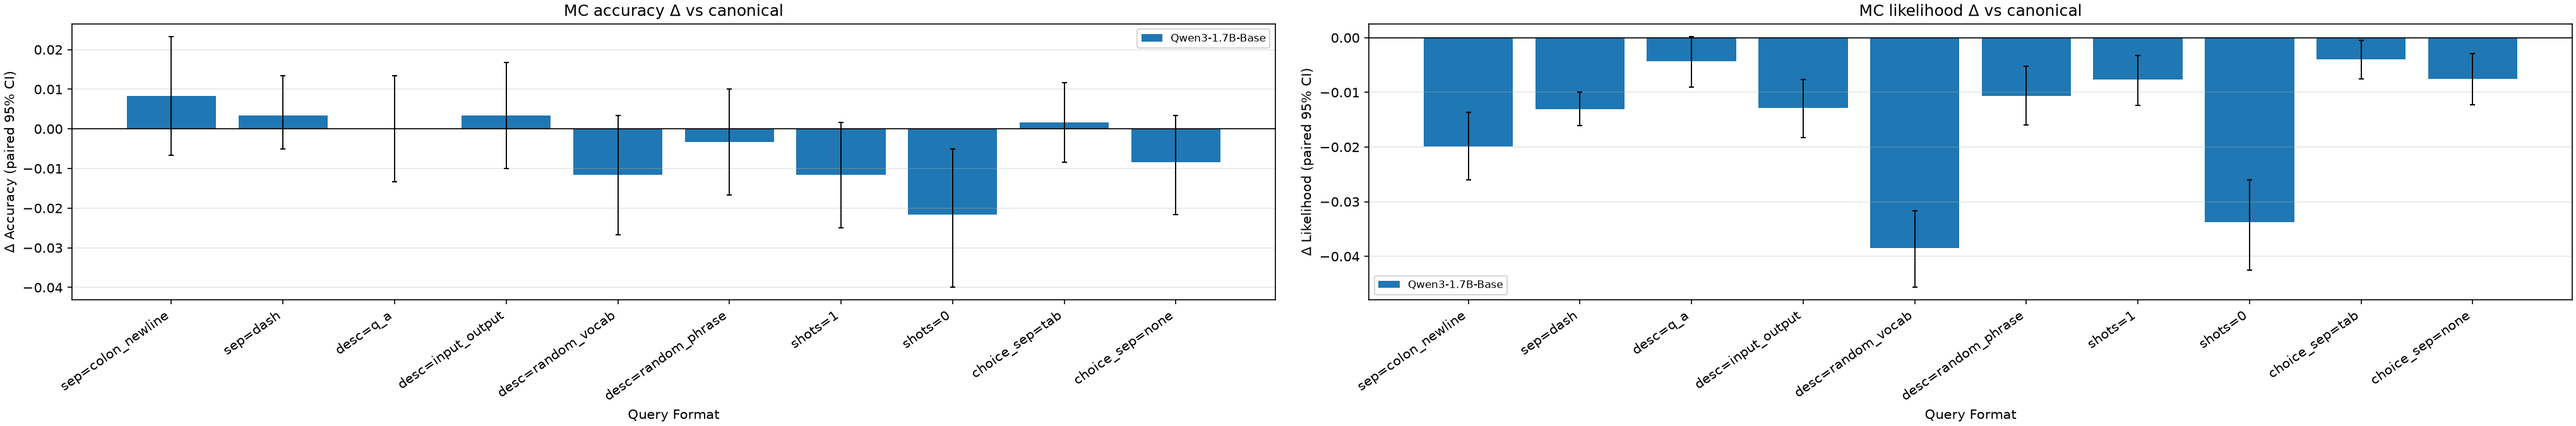
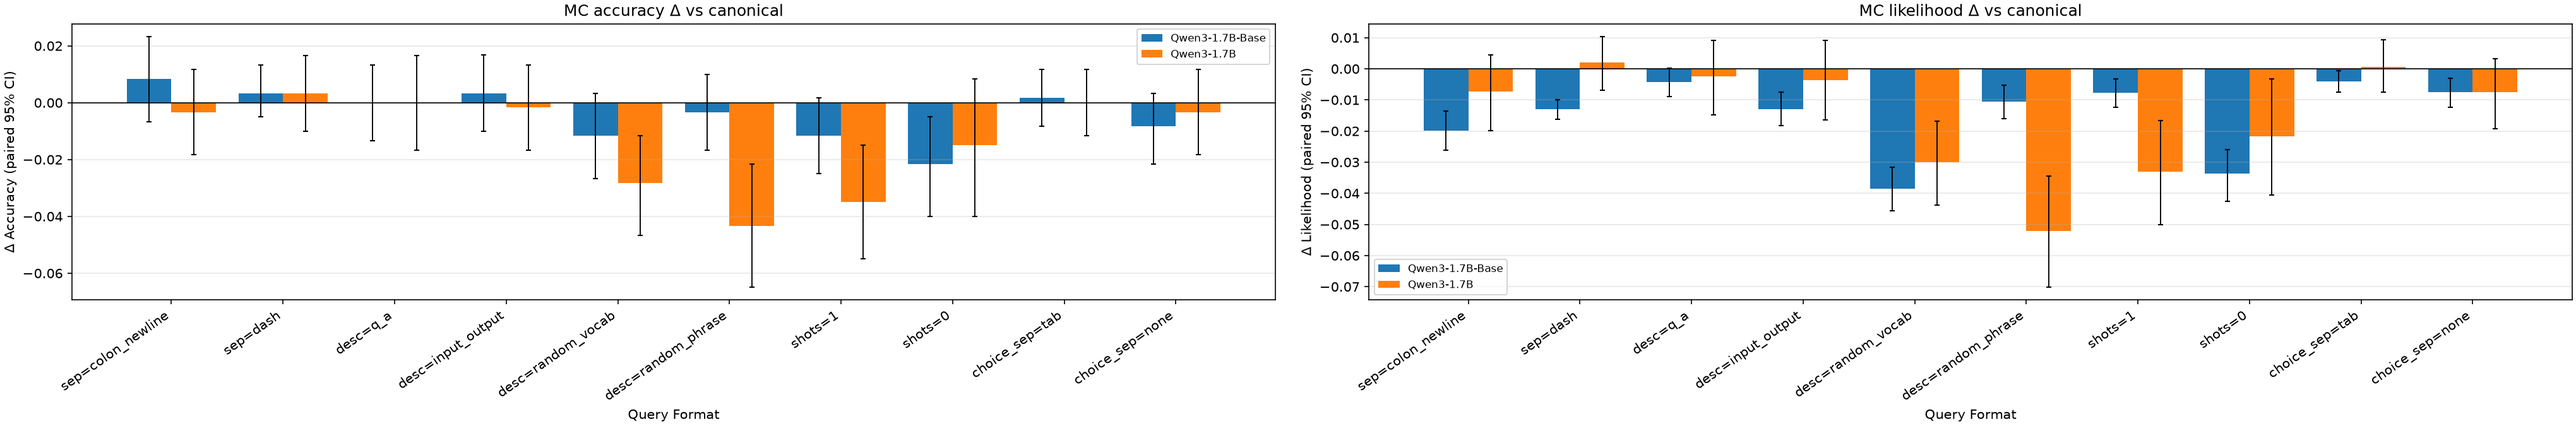
Format run: Qwen3-1.7B Base and Instruct results, four-model charts, descriptor-pair provenance correction

diff --git a/docs/results/2026-09-17-1350-fmt-ofat-dd300m.md b/docs/results/2026-09-17-1350-fmt-ofat-dd300m.md
@@ -1,4 +1,4 @@
-# One-factor format effects, DataDecide 300M, SNR train and dev subsets (2026-09-17 13:50)
+# One-factor format effects, DataDecide 300M / 1B and Qwen3-1.7B, SNR train and dev subsets (2026-09-17 13:50)
 
 First clean format run: canonical OLMES prompt with no instruction, one axis changed at a time
 (axes 1 separator, 2 descriptor pair incl. two random-string descriptors, 5 text-to-option
@@ -64,7 +64,7 @@ Effects are paired per item against canonical; se is the paired standard error (
 
 ## DataDecide 1B, same design (added 14:30)
 
-Sweeps `fmt-ofat-1256-dd1b-{train,dev}`; full table in `assets/.../effects-dd300m-dd1b.md`
+Sweeps `fmt-ofat-1256-dd1b-{train,dev}`; full table in `assets/.../effects-all-models.md`
 (script `scripts/po_format_effects.py`). RC, paired against canonical (train / dev):
 
 | format | acc Δ | share Δ ± se | 300M share Δ for comparison |
@@ -93,6 +93,65 @@ Sweeps `fmt-ofat-1256-dd1b-{train,dev}`; full table in `assets/.../effects-dd300
   "Answer:\n" plus a space-prefixed continuation on the 1B tokenizer.
 - **MC stays at chance on 1B for every format**, as on 300M; no share effect exceeds 1.5 se.
 
+## Qwen3-1.7B-Base and Qwen3-1.7B, same design (added 16:40)
+
+Sweeps `fmt-ofat-1256-qwen1.7b{-base,}-{train,dev}`; full table in
+`assets/.../effects-all-models.md`. Effects below are on the pooled train+dev items (n=600);
+canonical RC accuracy / share: Base 0.843 / 0.341, Instruct 0.790 / 0.414; canonical MC:
+Base 0.915 / 0.879, Instruct 0.898 / 0.900.
+
+RC, paired against canonical, pooled Δ accuracy and Δ share ± se:
+
+| format | Base acc Δ | Base share Δ ± se | Instruct acc Δ | Instruct share Δ ± se |
+|---|---|---|---|---|
+| sep=colon_newline | −0.020 | −0.0128 ± 0.0009 | −0.015 | −0.0382 ± 0.0026 |
+| sep=dash | −0.012 | −0.0091 ± 0.0006 | +0.020 | −0.0059 ± 0.0010 |
+| desc=q_a | −0.012 | −0.0057 ± 0.0005 | 0.000 | −0.0200 ± 0.0013 |
+| desc=input_output | −0.002 | −0.0003 ± 0.0004 | 0.000 | −0.0023 ± 0.0013 |
+| desc=random_vocab | −0.018 | −0.0140 ± 0.0009 | −0.015 | −0.0143 ± 0.0017 |
+| desc=random_phrase | −0.035 | −0.0200 ± 0.0011 | −0.005 | −0.0079 ± 0.0017 |
+| shots=1 | −0.023 | −0.0068 ± 0.0009 | −0.030 | −0.0060 ± 0.0019 |
+| shots=0 | −0.127 | −0.0370 ± 0.0019 | −0.070 | −0.0642 ± 0.0034 |
+
+MC, Qwen only (every DD MC effect is within 1.5 se of zero at chance):
+
+| format | Base acc Δ | Base share Δ ± se | Instruct acc Δ | Instruct share Δ ± se |
+|---|---|---|---|---|
+| sep=colon_newline | +0.008 | −0.0199 ± 0.0032 | −0.003 | −0.0073 ± 0.0062 |
+| sep=dash | +0.003 | −0.0131 ± 0.0015 | +0.003 | +0.0020 ± 0.0045 |
+| desc=q_a | 0.000 | −0.0043 ± 0.0024 | 0.000 | −0.0025 ± 0.0062 |
+| desc=input_output | +0.003 | −0.0129 ± 0.0027 | −0.002 | −0.0036 ± 0.0066 |
+| desc=random_vocab | −0.012 | −0.0385 ± 0.0036 | −0.028 | −0.0301 ± 0.0069 |
+| desc=random_phrase | −0.003 | −0.0106 ± 0.0027 | −0.043 | −0.0520 ± 0.0092 |
+| choice_sep=tab | +0.002 | −0.0040 ± 0.0018 | 0.000 | +0.0006 ± 0.0043 |
+| choice_sep=none | −0.008 | −0.0075 ± 0.0025 | −0.003 | −0.0076 ± 0.0058 |
+| shots=1 | −0.012 | −0.0076 ± 0.0024 | −0.035 | −0.0331 ± 0.0085 |
+| shots=0 | −0.022 | −0.0337 ± 0.0041 | −0.015 | −0.0217 ± 0.0098 |
+
+- **Canonical is at or near the top for both Qwen models on RC.** Every RC format change
+  lowers the share on both models, most by more than 5 se. The only accuracy gain is dash on
+  Instruct (+0.020, about 1.5 se on accuracy) while its share falls, the same accuracy /
+  likelihood split seen for colon-newline on 1B, in the other direction.
+- **Shot count dominates.** Zero shots costs Base 0.127 accuracy and 0.037 share, Instruct
+  0.070 and 0.064; one shot costs 0.006 to 0.007 share on both. This is the largest effect
+  in the whole run on any model, and the only effect with the same sign on all four.
+- **Both random-string descriptors hurt Qwen where 300M ignored the vocabulary string.**
+  Base loses 0.014 (vocab) and 0.020 (phrase) share; Instruct loses 0.014 and 0.008. Qwen
+  reads the descriptor text, DD300M mostly does not.
+- **Instruct is more format-sensitive than Base on the share and less on accuracy.** Its
+  colon-newline and Q/A share losses are three times Base's, but its RC accuracy is flat
+  under most changes because its canonical share sits higher (0.414) with more headroom
+  before rankings flip.
+- **MC on Qwen is sensitive to the same things as RC**, in the share more than in accuracy:
+  the random descriptors and shot count move the share by 0.02 to 0.05, while the MC-only
+  text-to-option separator is neutral (tab) or a small loss (none). Colon-newline and dash
+  lower the Base MC share by 0.01 to 0.02 with accuracy unchanged, the label prior shifting
+  under a fixed ranking.
+- **Across the four models no non-canonical format wins on the share.** The 1B dash gain
+  (+0.0013) is the only positive share effect that resolves; the same format costs both
+  Qwen models 0.006 to 0.009. Selection of a query format therefore has to be per model, and
+  for this one-factor set the canonical OLMES format is the right default for all four.
+
 ## Charts (added 15:45)
 
 Bar charts of the paired effect vs canonical with bootstrap 95% CIs, computed on the pooled
@@ -100,17 +159,16 @@ train+dev items (n=600; 2000 resamples) so the CI is the tightest the two subset
 Train-only and dev-only rows remain in `assets/.../effects-with-ci.csv` (column `subset`)
 as the replication check. Files under `assets/2026-09-17-fmt-ofat-dd300m/`:
 
-- `format-effects-rc.png`: RC, all formats, DD300M / DD1B / Qwen3-1.7B-Base.
-- `format-effects-mc-qwen.png`: MC, all formats, Qwen3-1.7B-Base only (DD stays at chance).
+- `format-effects-rc.png`: RC, all formats, DD300M / DD1B / Qwen3-1.7B-Base / Qwen3-1.7B.
+- `format-effects-mc-qwen.png`: MC, all formats, the two Qwen models (DD stays at chance).
 - `format-effects-group-{controls,separator,descriptor,shots}.png`: RC, one axis per figure.
-- `format-effects-group-choice-sep.png`: MC text-to-option separator, Qwen3-1.7B-Base.
+- `format-effects-group-choice-sep.png`: MC text-to-option separator, the two Qwen models.
 
 Pooling halves nothing qualitatively: the sign of every effect matches its train and dev
 estimates, and the pooled se is about 0.7 of the single-subset se.
 
 ## Caveats
 
-- Two models so far; the Qwen replicates of this design are running.
 - The two random descriptors are single draws; the difference between them is a
   difference between two strings, not between two generation methods. More draws would
   be needed to say which kind of random string hurts.

diff --git a/docs/results/assets/2026-09-17-fmt-ofat-dd300m/effects-all-models.md b/docs/results/assets/2026-09-17-fmt-ofat-dd300m/effects-all-models.md
@@ -90,3 +90,33 @@
 | choice_sep=tab | +0.007 (0.913) | -0.0022 ± 0.0028 (0.8643) | -0.003 (0.920) | -0.0058 ± 0.0022 (0.8856) | +0.002 (0.917) | -0.0040 ± 0.0018 (0.8750) |
 | choice_sep=none | -0.007 (0.900) | -0.0040 ± 0.0037 (0.8625) | -0.010 (0.913) | -0.0110 ± 0.0033 (0.8804) | -0.008 (0.907) | -0.0075 ± 0.0025 (0.8714) |
 
+## qwen1.7b RC
+
+| format | train acc Δ | train share Δ ± se | dev acc Δ | dev share Δ ± se | train+dev acc Δ | train+dev share Δ ± se |
+|---|---|---|---|---|---|---|
+| canonical | +0.000 (0.763) | +0.0000 ± 0.0000 (0.4029) | +0.000 (0.817) | +0.0000 ± 0.0000 (0.4241) | +0.000 (0.790) | +0.0000 ± 0.0000 (0.4135) |
+| sep=colon_newline | +0.000 (0.763) | -0.0295 ± 0.0037 (0.3734) | -0.030 (0.787) | -0.0469 ± 0.0036 (0.3771) | -0.015 (0.775) | -0.0382 ± 0.0026 (0.3753) |
+| sep=dash | +0.020 (0.783) | -0.0038 ± 0.0015 (0.3992) | +0.020 (0.837) | -0.0080 ± 0.0013 (0.4161) | +0.020 (0.810) | -0.0059 ± 0.0010 (0.4076) |
+| desc=q_a | +0.007 (0.770) | -0.0181 ± 0.0018 (0.3849) | -0.007 (0.810) | -0.0219 ± 0.0018 (0.4022) | +0.000 (0.790) | -0.0200 ± 0.0013 (0.3935) |
+| desc=input_output | +0.003 (0.767) | +0.0012 ± 0.0020 (0.4042) | -0.003 (0.813) | -0.0059 ± 0.0018 (0.4182) | +0.000 (0.790) | -0.0023 ± 0.0013 (0.4112) |
+| desc=random_vocab | -0.017 (0.747) | -0.0133 ± 0.0025 (0.3897) | -0.013 (0.803) | -0.0154 ± 0.0022 (0.4086) | -0.015 (0.775) | -0.0143 ± 0.0017 (0.3992) |
+| desc=random_phrase | +0.003 (0.767) | -0.0067 ± 0.0025 (0.3962) | -0.013 (0.803) | -0.0090 ± 0.0024 (0.4151) | -0.005 (0.785) | -0.0079 ± 0.0017 (0.4056) |
+| shots=1 | -0.013 (0.750) | -0.0040 ± 0.0025 (0.3990) | -0.047 (0.770) | -0.0080 ± 0.0029 (0.4161) | -0.030 (0.760) | -0.0060 ± 0.0019 (0.4075) |
+| shots=0 | -0.050 (0.713) | -0.0591 ± 0.0047 (0.3438) | -0.090 (0.727) | -0.0693 ± 0.0049 (0.3548) | -0.070 (0.720) | -0.0642 ± 0.0034 (0.3493) |
+
+## qwen1.7b MC
+
+| format | train acc Δ | train share Δ ± se | dev acc Δ | dev share Δ ± se | train+dev acc Δ | train+dev share Δ ± se |
+|---|---|---|---|---|---|---|
+| canonical | +0.000 (0.893) | +0.0000 ± 0.0000 (0.8943) | +0.000 (0.903) | +0.0000 ± 0.0000 (0.9046) | +0.000 (0.898) | +0.0000 ± 0.0000 (0.8995) |
+| sep=colon_newline | -0.003 (0.890) | -0.0120 ± 0.0094 (0.8823) | -0.003 (0.900) | -0.0027 ± 0.0083 (0.9019) | -0.003 (0.895) | -0.0073 ± 0.0062 (0.8921) |
+| sep=dash | +0.000 (0.893) | -0.0008 ± 0.0059 (0.8936) | +0.007 (0.910) | +0.0047 ± 0.0067 (0.9093) | +0.003 (0.902) | +0.0020 ± 0.0045 (0.9014) |
+| desc=q_a | -0.003 (0.890) | -0.0061 ± 0.0106 (0.8882) | +0.003 (0.907) | +0.0011 ± 0.0065 (0.9057) | +0.000 (0.898) | -0.0025 ± 0.0062 (0.8969) |
+| desc=input_output | -0.010 (0.883) | -0.0098 ± 0.0087 (0.8845) | +0.007 (0.910) | +0.0026 ± 0.0099 (0.9072) | -0.002 (0.897) | -0.0036 ± 0.0066 (0.8959) |
+| desc=random_vocab | -0.037 (0.857) | -0.0397 ± 0.0109 (0.8546) | -0.020 (0.883) | -0.0205 ± 0.0085 (0.8841) | -0.028 (0.870) | -0.0301 ± 0.0069 (0.8693) |
+| desc=random_phrase | -0.057 (0.837) | -0.0652 ± 0.0144 (0.8291) | -0.030 (0.873) | -0.0389 ± 0.0115 (0.8657) | -0.043 (0.855) | -0.0520 ± 0.0092 (0.8474) |
+| shots=1 | -0.040 (0.853) | -0.0419 ± 0.0131 (0.8524) | -0.030 (0.873) | -0.0243 ± 0.0108 (0.8802) | -0.035 (0.863) | -0.0331 ± 0.0085 (0.8663) |
+| shots=0 | -0.027 (0.867) | -0.0338 ± 0.0130 (0.8605) | -0.003 (0.900) | -0.0096 ± 0.0146 (0.8950) | -0.015 (0.883) | -0.0217 ± 0.0098 (0.8777) |
+| choice_sep=tab | +0.007 (0.900) | +0.0041 ± 0.0052 (0.8984) | -0.007 (0.897) | -0.0029 ± 0.0068 (0.9016) | +0.000 (0.898) | +0.0006 ± 0.0043 (0.9000) |
+| choice_sep=none | +0.010 (0.903) | +0.0004 ± 0.0081 (0.8947) | -0.017 (0.887) | -0.0156 ± 0.0083 (0.8890) | -0.003 (0.895) | -0.0076 ± 0.0058 (0.8919) |
+

diff --git a/docs/decisions/format-selection.md b/docs/decisions/format-selection.md
@@ -2,6 +2,24 @@
 
 The prompt-format grid (seed formats) and how formats are chosen and scored. Log, most recent first.
 
+## 2026-09-17 16:45 — Outcome: one-factor run on four models; canonical stays the default
+
+The 13:25 run completed on DataDecide 300M and 1B and Qwen3-1.7B Base and Instruct (train
+and dev each). Results note `docs/results/2026-09-17-1350-fmt-ofat-dd300m.md`. Charts use
+paired bootstrap CIs on the pooled train+dev items (n=600); per-subset rows are kept as the
+replication check.
+
+- No non-canonical format beats canonical on the likelihood share on any model except dash on
+  1B (+0.0013 ± 0.0002), which costs both Qwen models 0.006 to 0.009. Every other resolved
+  effect is a loss. Canonical OLMES remains the query format for the instruction experiments.
+- Effects are model-specific in sign (Q/A, Input/Output, dash all flip between models), so
+  any later format selection is per model and per formulation, as SAMMO and Bozhenko found.
+- Shot count is the one shared effect: zero shots hurts all four models (300M −0.009, 1B
+  −0.008, Qwen-Base −0.037, Qwen −0.064 share); one shot hurts all four by less.
+- DD models stay at chance on MC under every format tried; only Qwen responds to MC format.
+- Deferred, unchanged: RC factorial (separator × descriptor × shots, 45 formats), option
+  wrapper and item style with surface-form scoring, padding.
+
 ## 2026-09-17 13:25 — Decision: first-pass format run (300M, one factor at a time, axes 1/2/5/6)
 
 Six axes chosen for the first pass out of the existing seven plus proposed additions: descriptor
@@ -78,10 +96,14 @@ normalized away at scoring time.
 
 ## 2026-09-17 10:20 — Record: provenance of the current grid
 
-The seven axes (descriptor pair, descriptor separator, descriptor case, answer break,
-example separator, choice label style, choices header) come from Sclar 2023's
-meaning-preserving grammar; the shape (few named options per axis, scored by
-likelihood) from Voronov 2024. The option pools (`rule`, `dash`, ...) are ours. Sclar
-found only the descriptor separator and enumeration style moved most tasks; several of
-our axes are coverage, not expected effects. Canonical format reproduces OLMES byte for
+Six of the seven axes (descriptor separator, descriptor case, answer break, example
+separator, choice label style, choices header) come from Sclar 2023's meaning-preserving
+grammar, which varies descriptor casing but never the descriptor words. Varying the
+descriptor words themselves (descriptor pair: Question/Answer, Q/A, Input/Output) comes from
+Voronov 2024's input and output verbalizer slots, as does the shape (few named options per
+axis, scored by likelihood). The option pools (`rule`, `dash`, ...) are ours. Sclar found only
+the descriptor separator and enumeration style moved most tasks, and casing never did;
+Voronov found verbalizer choice has high variance with the best option flipping between
+models. Several of our axes are coverage, not expected effects. (Attribution corrected
+2026-09-17 16:45; an earlier version credited descriptor pair to Sclar.) Canonical format reproduces OLMES byte for
 byte (`daa93775`).
